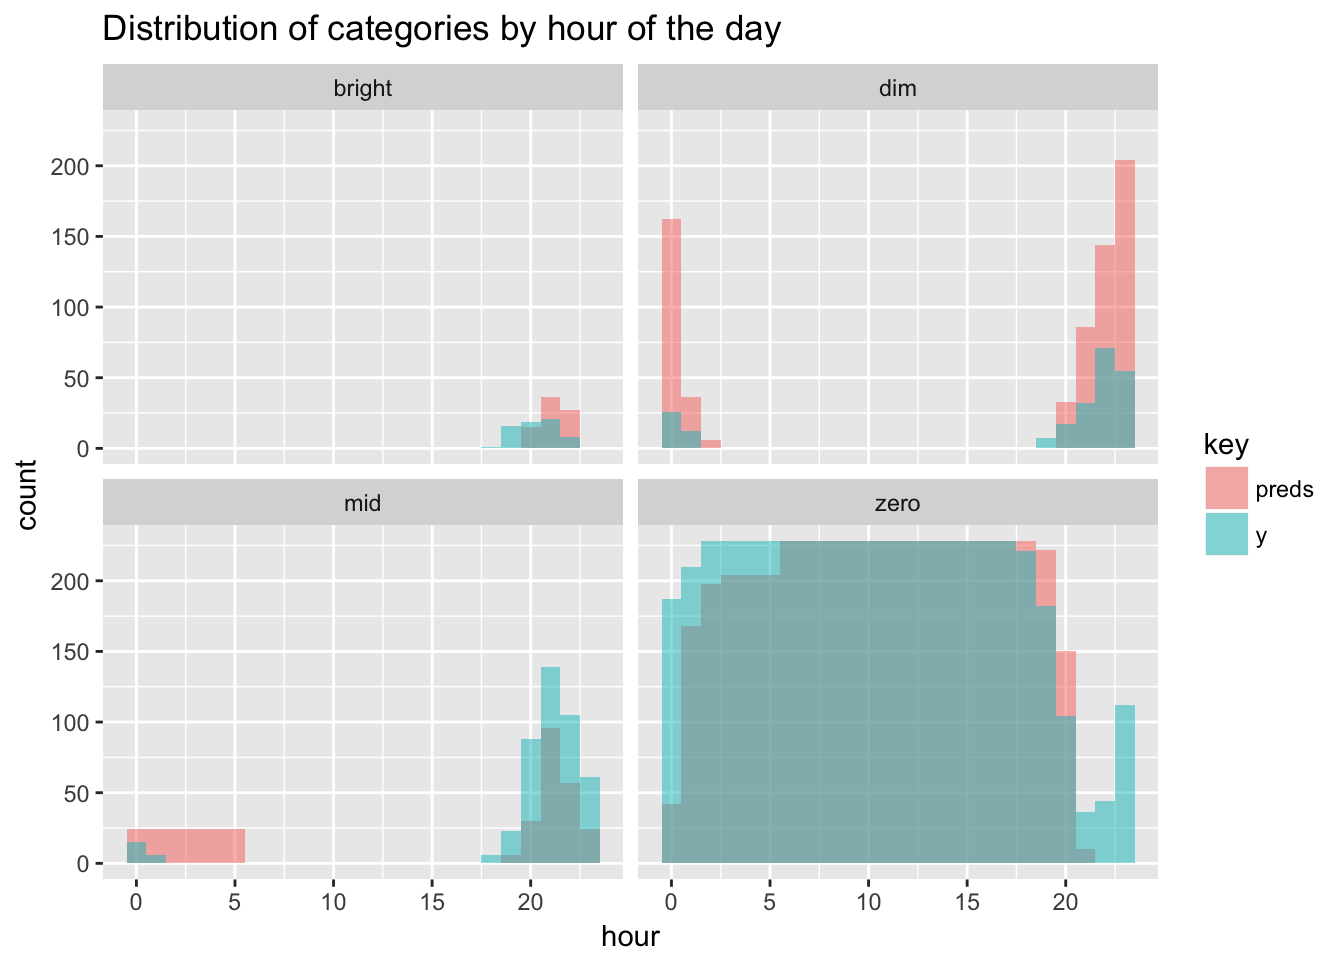
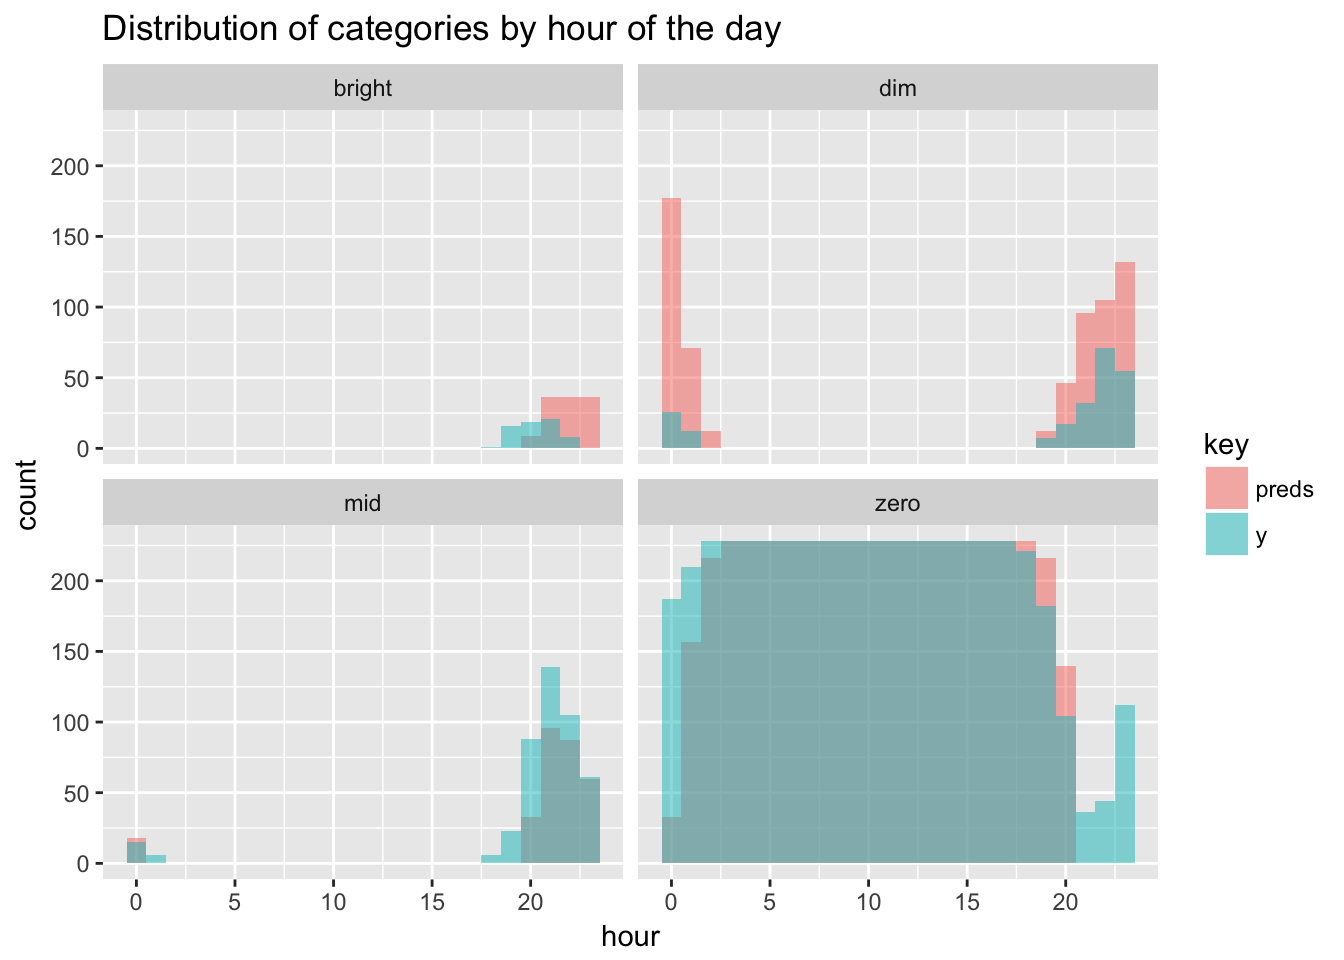
thumbnail test

diff --git a/blog/self-learning-hue-lights/index.html b/blog/self-learning-hue-lights/index.html
@@ -44,11 +44,11 @@
 
 
     
-    <link rel="stylesheet" href="../../css/reset.css?t=1507446261">
-    <link rel="stylesheet" href="../../css/pygments.css?t=1507446261">
-    <link rel="stylesheet" href="../../css/main.css?t=1507446261">
+    <link rel="stylesheet" href="../../css/reset.css?t=1507447184">
+    <link rel="stylesheet" href="../../css/pygments.css?t=1507447184">
+    <link rel="stylesheet" href="../../css/main.css?t=1507447184">
     
-        <link rel="stylesheet" href="../../css/override.css?t=1507446261">
+        <link rel="stylesheet" href="../../css/override.css?t=1507447184">
     
 
 
@@ -278,10 +278,10 @@ gbmFit &lt;- train(y ~ ., data = training,
 table(preds, testing$y)</code></pre>
 <pre><code>##         
 ## preds     dim  mid bright zero
-##   dim     103  199     28  341
-##   mid      54   85      6  212
-##   bright   20   50      0    8
-##   zero     43  109     31 4183</code></pre>
+##   dim      79  186     32  354
+##   mid      75  113      6  100
+##   bright   37   53      0   27
+##   zero     29   91     27 4263</code></pre>
 <p>Most mistakes are made trying to classify bright and mid. The model gets 0 bright values right and only manages to do so correctly 14% of the time for mid. But when do errors happen? To dig a little deeper let’s look at the previous histogram of categories by hour again for the test set, but now with the predictions overlaid on top.</p>
 <p><img src="../../blog/2017/2017-05-14-hue_files/figure-html/unnamed-chunk-11-1.png" width="672" /></p>
 <p>Bright values were always going be hard to guess, but the model at least comes close in terms of hours, but off on the exact days. The majority of misclassification comes from overzealously predicting dim in the evening and around midnight, when it should really be either mid or zero. That looks like a workable scenario for me.</p>

diff --git a/blog/a-tidy-text-analysis-of-rick-and-morty/index.html b/blog/a-tidy-text-analysis-of-rick-and-morty/index.html
@@ -44,11 +44,11 @@
 
 
     
-    <link rel="stylesheet" href="../../css/reset.css?t=1507446261">
-    <link rel="stylesheet" href="../../css/pygments.css?t=1507446261">
-    <link rel="stylesheet" href="../../css/main.css?t=1507446261">
+    <link rel="stylesheet" href="../../css/reset.css?t=1507447184">
+    <link rel="stylesheet" href="../../css/pygments.css?t=1507447184">
+    <link rel="stylesheet" href="../../css/main.css?t=1507447184">
     
-        <link rel="stylesheet" href="../../css/override.css?t=1507446261">
+        <link rel="stylesheet" href="../../css/override.css?t=1507447184">
     
 
 

diff --git a/blog/analyzing-my-spotify-listening-history/index.html b/blog/analyzing-my-spotify-listening-history/index.html
@@ -44,11 +44,11 @@
 
 
     
-    <link rel="stylesheet" href="../../css/reset.css?t=1507446261">
-    <link rel="stylesheet" href="../../css/pygments.css?t=1507446261">
-    <link rel="stylesheet" href="../../css/main.css?t=1507446261">
+    <link rel="stylesheet" href="../../css/reset.css?t=1507447184">
+    <link rel="stylesheet" href="../../css/pygments.css?t=1507447184">
+    <link rel="stylesheet" href="../../css/main.css?t=1507447184">
     
-        <link rel="stylesheet" href="../../css/override.css?t=1507446261">
+        <link rel="stylesheet" href="../../css/override.css?t=1507447184">
     
 
 

diff --git a/blog/creating-a-spotify-playlist-using-luigi/index.html b/blog/creating-a-spotify-playlist-using-luigi/index.html
@@ -44,11 +44,11 @@
 
 
     
-    <link rel="stylesheet" href="../../css/reset.css?t=1507446261">
-    <link rel="stylesheet" href="../../css/pygments.css?t=1507446261">
-    <link rel="stylesheet" href="../../css/main.css?t=1507446261">
+    <link rel="stylesheet" href="../../css/reset.css?t=1507447184">
+    <link rel="stylesheet" href="../../css/pygments.css?t=1507447184">
+    <link rel="stylesheet" href="../../css/main.css?t=1507447184">
     
-        <link rel="stylesheet" href="../../css/override.css?t=1507446261">
+        <link rel="stylesheet" href="../../css/override.css?t=1507447184">
     
 
 

diff --git a/blog/starting-a-blogdown/index.html b/blog/starting-a-blogdown/index.html
@@ -44,11 +44,11 @@
 
 
     
-    <link rel="stylesheet" href="../../css/reset.css?t=1507446261">
-    <link rel="stylesheet" href="../../css/pygments.css?t=1507446261">
-    <link rel="stylesheet" href="../../css/main.css?t=1507446261">
+    <link rel="stylesheet" href="../../css/reset.css?t=1507447184">
+    <link rel="stylesheet" href="../../css/pygments.css?t=1507447184">
+    <link rel="stylesheet" href="../../css/main.css?t=1507447184">
     
-        <link rel="stylesheet" href="../../css/override.css?t=1507446261">
+        <link rel="stylesheet" href="../../css/override.css?t=1507447184">
     
 
 

diff --git a/categories/r/index.html b/categories/r/index.html
@@ -44,11 +44,11 @@
 
 
     
-    <link rel="stylesheet" href="../../css/reset.css?t=1507446261">
-    <link rel="stylesheet" href="../../css/pygments.css?t=1507446261">
-    <link rel="stylesheet" href="../../css/main.css?t=1507446261">
+    <link rel="stylesheet" href="../../css/reset.css?t=1507447184">
+    <link rel="stylesheet" href="../../css/pygments.css?t=1507447184">
+    <link rel="stylesheet" href="../../css/main.css?t=1507447184">
     
-        <link rel="stylesheet" href="../../css/override.css?t=1507446261">
+        <link rel="stylesheet" href="../../css/override.css?t=1507447184">
     
 
 

diff --git a/tags/dplyr/index.html b/tags/dplyr/index.html
@@ -44,11 +44,11 @@
 
 
     
-    <link rel="stylesheet" href="../../css/reset.css?t=1507446261">
-    <link rel="stylesheet" href="../../css/pygments.css?t=1507446261">
-    <link rel="stylesheet" href="../../css/main.css?t=1507446261">
+    <link rel="stylesheet" href="../../css/reset.css?t=1507447184">
+    <link rel="stylesheet" href="../../css/pygments.css?t=1507447184">
+    <link rel="stylesheet" href="../../css/main.css?t=1507447184">
     
-        <link rel="stylesheet" href="../../css/override.css?t=1507446261">
+        <link rel="stylesheet" href="../../css/override.css?t=1507447184">
     
 
 

diff --git a/tags/ggplot/index.html b/tags/ggplot/index.html
@@ -44,11 +44,11 @@
 
 
     
-    <link rel="stylesheet" href="../../css/reset.css?t=1507446261">
-    <link rel="stylesheet" href="../../css/pygments.css?t=1507446261">
-    <link rel="stylesheet" href="../../css/main.css?t=1507446261">
+    <link rel="stylesheet" href="../../css/reset.css?t=1507447184">
+    <link rel="stylesheet" href="../../css/pygments.css?t=1507447184">
+    <link rel="stylesheet" href="../../css/main.css?t=1507447184">
     
-        <link rel="stylesheet" href="../../css/override.css?t=1507446261">
+        <link rel="stylesheet" href="../../css/override.css?t=1507447184">
     
 
 

diff --git a/tags/hue/index.html b/tags/hue/index.html
@@ -44,11 +44,11 @@
 
 
     
-    <link rel="stylesheet" href="../../css/reset.css?t=1507446261">
-    <link rel="stylesheet" href="../../css/pygments.css?t=1507446261">
-    <link rel="stylesheet" href="../../css/main.css?t=1507446261">
+    <link rel="stylesheet" href="../../css/reset.css?t=1507447184">
+    <link rel="stylesheet" href="../../css/pygments.css?t=1507447184">
+    <link rel="stylesheet" href="../../css/main.css?t=1507447184">
     
-        <link rel="stylesheet" href="../../css/override.css?t=1507446261">
+        <link rel="stylesheet" href="../../css/override.css?t=1507447184">
     
 
 

diff --git a/tags/luigi/index.html b/tags/luigi/index.html
@@ -44,11 +44,11 @@
 
 
     
-    <link rel="stylesheet" href="../../css/reset.css?t=1507446261">
-    <link rel="stylesheet" href="../../css/pygments.css?t=1507446261">
-    <link rel="stylesheet" href="../../css/main.css?t=1507446261">
+    <link rel="stylesheet" href="../../css/reset.css?t=1507447184">
+    <link rel="stylesheet" href="../../css/pygments.css?t=1507447184">
+    <link rel="stylesheet" href="../../css/main.css?t=1507447184">
     
-        <link rel="stylesheet" href="../../css/override.css?t=1507446261">
+        <link rel="stylesheet" href="../../css/override.css?t=1507447184">
     
 
 

diff --git a/tags/plot/index.html b/tags/plot/index.html
@@ -44,11 +44,11 @@
 
 
     
-    <link rel="stylesheet" href="../../css/reset.css?t=1507446261">
-    <link rel="stylesheet" href="../../css/pygments.css?t=1507446261">
-    <link rel="stylesheet" href="../../css/main.css?t=1507446261">
+    <link rel="stylesheet" href="../../css/reset.css?t=1507447184">
+    <link rel="stylesheet" href="../../css/pygments.css?t=1507447184">
+    <link rel="stylesheet" href="../../css/main.css?t=1507447184">
     
-        <link rel="stylesheet" href="../../css/override.css?t=1507446261">
+        <link rel="stylesheet" href="../../css/override.css?t=1507447184">
     
 
 

diff --git a/tags/purrr/index.html b/tags/purrr/index.html
@@ -44,11 +44,11 @@
 
 
     
-    <link rel="stylesheet" href="../../css/reset.css?t=1507446261">
-    <link rel="stylesheet" href="../../css/pygments.css?t=1507446261">
-    <link rel="stylesheet" href="../../css/main.css?t=1507446261">
+    <link rel="stylesheet" href="../../css/reset.css?t=1507447184">
+    <link rel="stylesheet" href="../../css/pygments.css?t=1507447184">
+    <link rel="stylesheet" href="../../css/main.css?t=1507447184">
     
-        <link rel="stylesheet" href="../../css/override.css?t=1507446261">
+        <link rel="stylesheet" href="../../css/override.css?t=1507447184">
     
 
 
